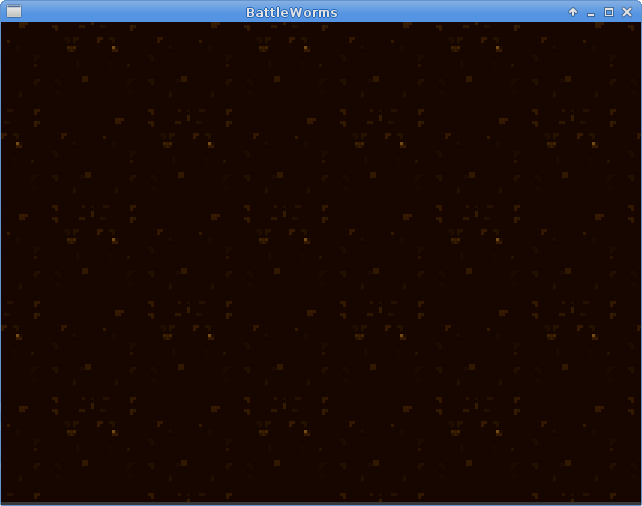
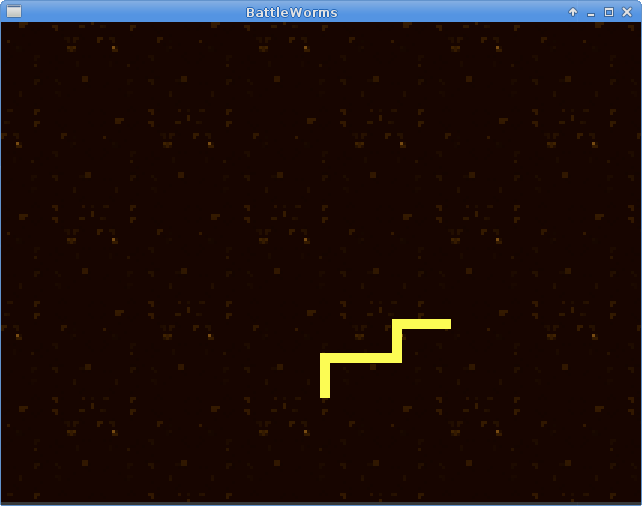
Handle user input to control a segmented worm

Changed region(s): [[0.4984, 0.6225, 0.7165, 0.8004]]

diff --git a/src/Worm.cpp b/src/Worm.cpp
@@ -35,23 +35,130 @@ const sf::Color Worm::color_ = Color::wormYellow;
 Worm::Worm()
 {
     // create first worm segment
-    constexpr float posX = 10.0;  // arbitrary starting position
-    constexpr float posY = 10.0;
-    segments_.push_front(std::make_unique<Segment>(Segment(posX, posY, Direction::right)));
-    segments_.front()->setSize(sf::Vector2f(10 * width_, width_));
+    constexpr float posX = 300.0;  // arbitrary starting position
+    constexpr float posY = 300.0;
+    segments_.push_front(std::make_unique<Segment>(Segment(posX, posY, Direction::left)));
+    segments_.front()->setSize(sf::Vector2f(20 * width_, width_));
 }
 
-Worm::Segment::Segment(float startX, float startY, Direction dir)
-    : dir_{dir}, length_{1.0}
+Worm::Segment::Segment(float startX, float startY, Direction dir) : dir_{dir}
 {
     // set initial position, size, and color
     setPosition(startX, startY);
-    setSize(sf::Vector2f(length_, Worm::width_));
+    setSize(sf::Vector2f(Worm::width_, Worm::width_));
     setFillColor(Worm::color_);
 }
 
-void Worm::draw(sf::RenderTarget& target, sf::RenderStates states) const {
+void Worm::Segment::move(float offset)
+{
+    switch (dir_) {
+        case Direction::up:
+            sf::RectangleShape::move(0.0, -offset);
+            break;
+        case Direction::down:
+            sf::RectangleShape::move(0.0, +offset);
+            break;
+        case Direction::right:
+            sf::RectangleShape::move(+offset, 0.0);
+            break;
+        case Direction::left:
+            sf::RectangleShape::move(-offset, 0.0);
+            break;
+    }
+}
+
+void Worm::Segment::resize(float amount)
+{
+    setSize(sf::Vector2f(getSize().x + amount, getSize().y));
+}
+
+void Worm::draw(sf::RenderTarget& target, sf::RenderStates states) const
+{
     // draw each segment of the worm
-    for (auto& s : segments_)
-        target.draw(*s);
+    for (auto& s : segments_) {
+        s->setRotation(static_cast<int>(s->dir_) * 90);
+        target.draw(*s, states);
+    }
+}
+
+void Worm::changeDirection(Direction dir)
+{
+    Segment& s = *segments_.front();
+
+    // any change in direction must be orthogonal to current direction
+    if (static_cast<int>(s.dir_) % 2 == static_cast<int>(dir) % 2)
+        return;
+
+    float length = s.getSize().x;
+    float posX = s.getPosition().x;
+    float posY = s.getPosition().y;
+    float newX = posX;
+    float newY = posY;
+
+    // moving right
+    if (s.dir_ == Direction::right) {
+        // turn up
+        if (dir == Direction::up) {
+            newX += length - width_;
+            newY += width_;
+        }
+        // turn down
+        else {
+            newX += length;
+        }
+    }
+    // moving left
+    else if (s.dir_ == Direction::left) {
+        // turn up
+        if (dir == Direction::up) {
+            newX -= length;
+        }
+        // turn down
+        else {
+            newX -= length - width_;
+            newY -= width_;
+        }
+    }
+    // moving up
+    else if (s.dir_ == Direction::up) {
+        // turn right
+        if (dir == Direction::right) {
+            newY -= length;
+        }
+        // turn left
+        else {
+            newY -= length - width_;
+            newX += width_;
+        }
+    }
+    // moving down
+    else if (s.dir_ == Direction::down) {
+        // turn right
+        if (dir == Direction::right) {
+            newY += length - width_;
+            newX -= width_;
+        }
+        // turn left
+        else {
+            newY += length;
+        }
+    }
+
+    s.resize(-width_);  // create space for new square segment
+    segments_.push_front(std::make_unique<Segment>(Segment(newX, newY, dir)));
+}
+
+void Worm::move()
+{
+    Segment& head = *segments_.front();
+    Segment& tail = *segments_.back();
+
+    // move head and tail segments
+    head.resize(speed_);
+    tail.resize(-speed_);
+    tail.move(speed_);
+
+    // destroy tail if it becomes too small
+    if (tail.getSize().x <= 0.0)
+        segments_.pop_back();
 }

diff --git a/src/Game.cpp b/src/Game.cpp
@@ -30,7 +30,8 @@ Usage Agreement:
 #include "Game.hpp"
 
 
-Game::Game() : window_(sf::VideoMode(windowWidth_, windowHeight_), "BattleWorms"), player_{}, score_{0}
+Game::Game() : window_(sf::VideoMode(windowWidth_, windowHeight_), "BattleWorms"), player_{}, score_{0},
+               keyReleased_{true}
 {
     // limit the framerate
     window_.setFramerateLimit(fps_);
@@ -60,14 +61,25 @@ void Game::processEvents()
     sf::Event event;
     while (window_.pollEvent(event)) {
         switch (event.type) {
+            case sf::Event::KeyPressed:
+                if (keyReleased_) {
+                    keyReleased_ = false;
+                    handlePlayerInput(event.key.code);
+                }
+                break;
+            case sf::Event::KeyReleased:
+                keyReleased_ = true;
+                break;
             case sf::Event::Closed:
                 window_.close();
+                break;
         }
     }
 }
 
 void Game::update()
 {
+    player_.move();
 }
 
 void Game::render()
@@ -76,4 +88,22 @@ void Game::render()
     window_.draw(background_);
     window_.draw(player_);
     window_.display();
+}
+
+void Game::handlePlayerInput(sf::Keyboard::Key key)
+{
+    switch(key) {
+        case sf::Keyboard::Up:
+            player_.changeDirection(Direction::up);
+            break;
+        case sf::Keyboard::Down:
+            player_.changeDirection(Direction::down);
+            break;
+        case sf::Keyboard::Right:
+            player_.changeDirection(Direction::right);
+            break;
+        case sf::Keyboard::Left:
+            player_.changeDirection(Direction::left);
+            break;
+    }
 }

diff --git a/src/Worm.hpp b/src/Worm.hpp
@@ -39,17 +39,22 @@ class Worm : public sf::Sprite {
 public:
     Worm();
     void draw(sf::RenderTarget& target, sf::RenderStates states) const;
+    void changeDirection(Direction dir);
+    void move();
+    // TODO: Document functions
 
 private:
     struct Segment : public sf::RectangleShape {
         Segment(float startX, float startY, Direction dir);
+        void move(float offset);
+        void resize(float amount);
         Direction dir_;
-        float length_;
     };
 
 private:
     using SegPtr = std::unique_ptr<Segment>;
     std::deque<SegPtr> segments_;
+    float speed_ = 5.0;  // amount to move head and tail by each frame
     static constexpr float width_ = 10.0;
     static const sf::Color color_;
 };

diff --git a/src/Game.hpp b/src/Game.hpp
@@ -43,6 +43,7 @@ private:
     void processEvents();
     void update();
     void render();
+    void handlePlayerInput(sf::Keyboard::Key key);
 
 private:
     sf::RenderWindow window_;
@@ -50,6 +51,7 @@ private:
     sf::Sprite background_;
     Worm player_;
     unsigned score_;    // TODO: Track and display score
+    bool keyReleased_;  // ensures that each key press only triggers one event
     static constexpr unsigned windowWidth_ = 640;
     static constexpr unsigned windowHeight_ = 480;
     static constexpr unsigned fps_ = 60;

diff --git a/src/Constants.hpp b/src/Constants.hpp
@@ -38,6 +38,6 @@ namespace Color {
     const sf::Color wordWhite{0xFC, 0xFC, 0xFC, 0xFF};
 }
 
-enum class Direction { up, down, right, left };
+enum class Direction { right, down, left, up };
 
 #endif //BATTLEWORMS_CONSTANTS_HPP
